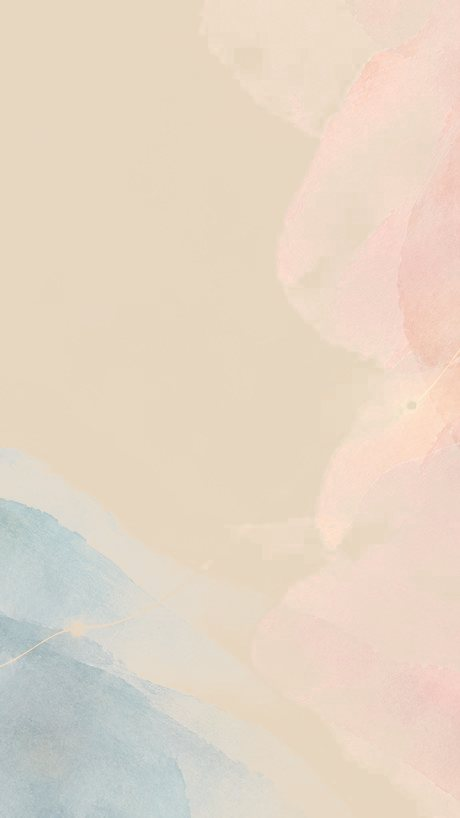
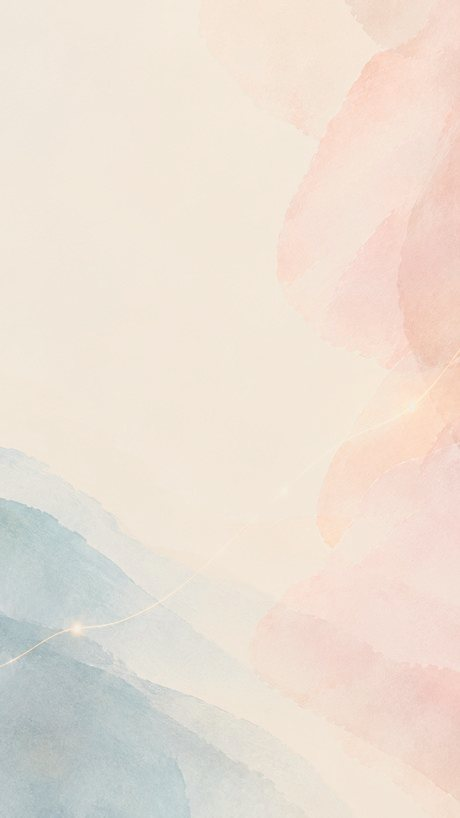
기존 배경 베이지를 더 연하고 밝게 조정 (시안)
Claude-Session: https://claude.ai/code/session_0132g5UJm8uz5i24szpe95AM

diff --git a/app.html b/app.html
@@ -767,7 +767,7 @@ button.cal-row b { color: var(--gold); }
 .brand-sub { display: none; }
 .icon-btn.avatar svg { width: 32px; height: 32px; }
 body.is-home { background: transparent; }
-body.is-home::before { content: ""; position: fixed; inset: 0; z-index: -1; background: #F4EDE6 url("home-bg1b.jpg") center / cover no-repeat; filter: saturate(1.22) contrast(1.05) brightness(.97); }
+body.is-home::before { content: ""; position: fixed; inset: 0; z-index: -1; background: #F4EDE6 url("home-bg1b.jpg") center / cover no-repeat; filter: saturate(1.18) contrast(1.03) brightness(1.01); }
 .hwel2 { position: relative; padding: 22px 0 28px; text-align: center; }
 .hwel2 p { margin: 0; font-family: var(--font-serif); font-weight: 300; font-size: 15px; line-height: 2.3; color: #3A4258; letter-spacing: .05em; }
 .hwel2 .sun { font-style: normal; font-weight: 400; font-size: 1.6em; line-height: 1; color: #C0504A; vertical-align: -.06em; }

diff --git a/index.html b/index.html
@@ -773,7 +773,7 @@ button.cal-row b { color: var(--gold); }
 .brand-sub { display: none; }
 .icon-btn.avatar svg { width: 32px; height: 32px; }
 body.is-home { background: transparent; }
-body.is-home::before { content: ""; position: fixed; inset: 0; z-index: -1; background: #F4EDE6 url("home-bg1b.jpg") center / cover no-repeat; filter: saturate(1.22) contrast(1.05) brightness(.97); }
+body.is-home::before { content: ""; position: fixed; inset: 0; z-index: -1; background: #F4EDE6 url("home-bg1b.jpg") center / cover no-repeat; filter: saturate(1.18) contrast(1.03) brightness(1.01); }
 .hwel2 { position: relative; padding: 22px 0 28px; text-align: center; }
 .hwel2 p { margin: 0; font-family: var(--font-serif); font-weight: 300; font-size: 15px; line-height: 2.3; color: #3A4258; letter-spacing: .05em; }
 .hwel2 .sun { font-style: normal; font-weight: 400; font-size: 1.6em; line-height: 1; color: #C0504A; vertical-align: -.06em; }
